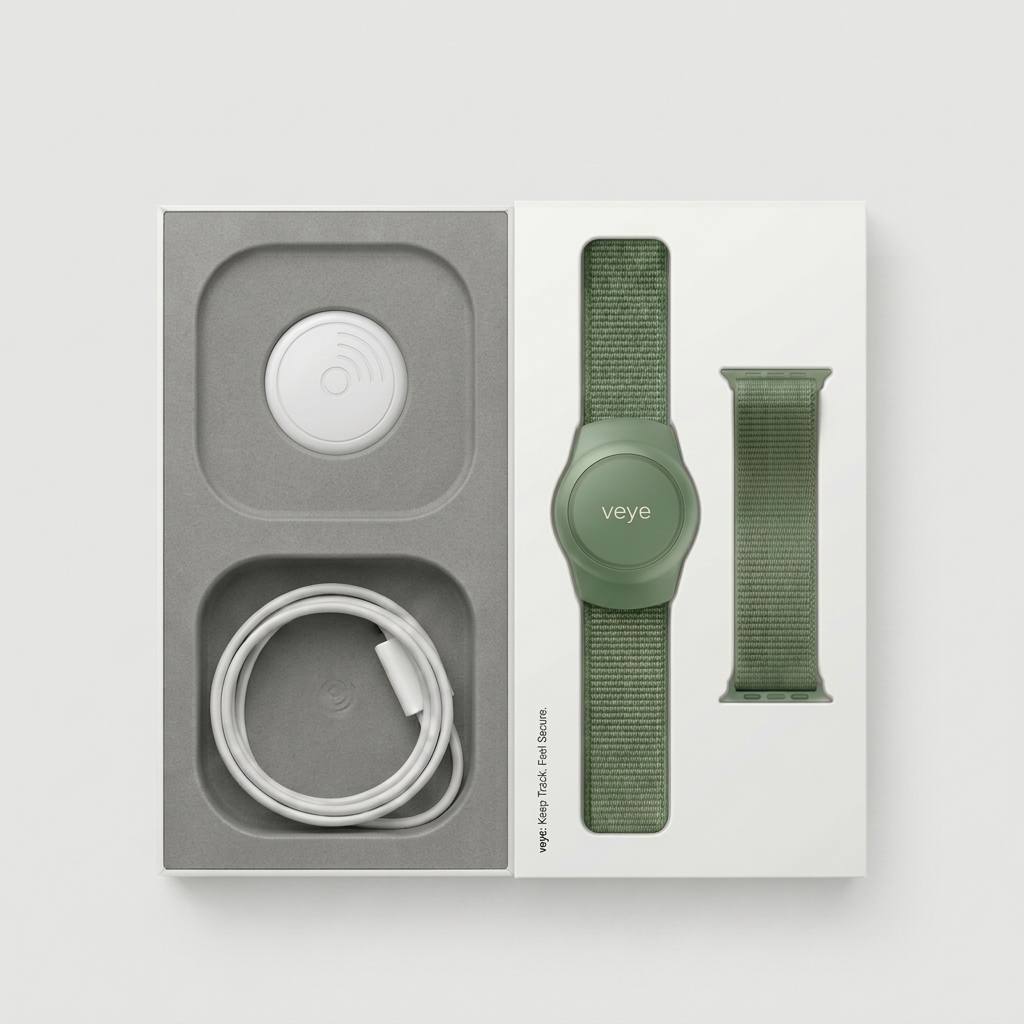
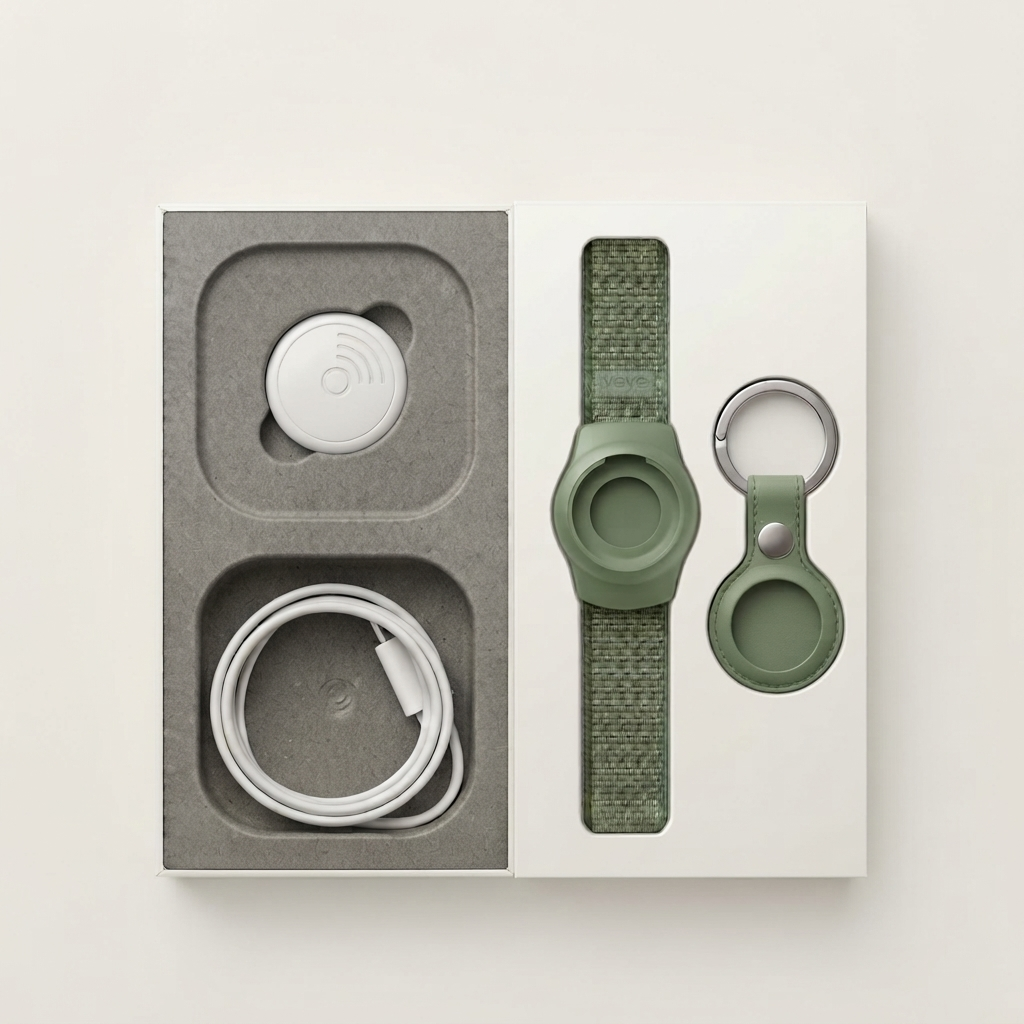
Use the final product render in the pricing section
Swaps the pricing panel photo for the updated render: the spare wrist band is
replaced by the keyring holder, and the packaging is unbranded. Same 1024x1024
frame as before, so the img dimensions are unchanged; the alt text now names
what is actually in the box.

Claude-Session: https://claude.ai/code/session_011ZGAjb78zyxgbFuDSmHPRP

diff --git a/website/index.html b/website/index.html
@@ -245,7 +245,7 @@
         <p class="pricing-note">No payment now. Just a spot, saved.</p>
       </div>
       <div class="pricing-shot">
-        <img loading="lazy" decoding="async" class="shot" src="screens/tracker-box.jpeg" alt="veye tracker, band and charger in its box" width="1024" height="1024">
+        <img loading="lazy" decoding="async" class="shot" src="screens/tracker-box.jpeg" alt="veye tracker, wrist band, keyring holder and charging cable in its box" width="1024" height="1024">
       </div>
     </div>
   </section>

diff --git a/website/screens/README.md b/website/screens/README.md
@@ -14,7 +14,7 @@ design project the page was built from:
 | `guardians.png` | `uploads/Multiple guardians.png` | feature 04, guardians |
 | `settings.png` | `uploads/Setting Screen .png` | feature 05, settings |
 | `tracker-app.jpg` | `uploads/Generated Image September 12, 2026 - 11_13PM.jpg` | the hardware section |
-| `tracker-box.jpeg` | `uploads/Firsat generation.jpeg` | the pricing panel |
+| `tracker-box.jpeg` | supplied directly as `final Product render.jpg` | the pricing panel |
 
 The six `.png` files are parent-app screenshots, roughly 880×1800. The two
 photos show the tracker itself.
